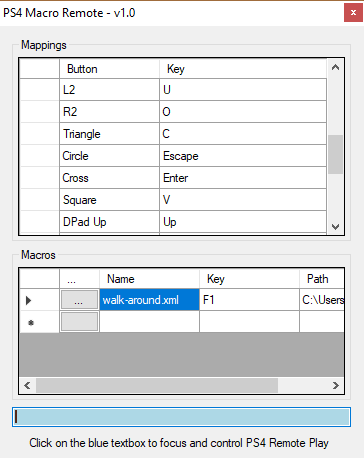
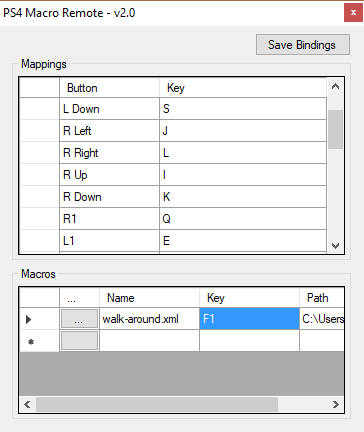
release v2.0.0

diff --git a/PS4Macro.Remote/MainForm.Designer.cs b/PS4Macro.Remote/MainForm.Designer.cs
@@ -156,7 +156,7 @@
             this.Controls.Add(this.mappingsGroupBox);
             this.FormBorderStyle = System.Windows.Forms.FormBorderStyle.FixedToolWindow;
             this.Name = "MainForm";
-            this.Text = "PS4 Macro Remote - v1.1";
+            this.Text = "PS4 Macro Remote - v2.0";
             this.Load += new System.EventHandler(this.MainForm_Load);
             this.mappingsGroupBox.ResumeLayout(false);
             ((System.ComponentModel.ISupportInitialize)(this.mappingsDataGridView)).EndInit();

diff --git a/README.md b/README.md
@@ -15,7 +15,6 @@ Remap and use your keyboard to control PS4 Remote Play using [PS4 Macro](https:/
 
 1. Open PS4Macro.Remote.dll in PS4 Macro.
 2. Press play.
-3. Click on the blue textbox and keep it in focus.
 4. Press the keys on your keyboard.
 
 ## Settings
@@ -26,6 +25,4 @@ To add a recorded macro, click on `...` to browse and select the file.
 
 ## To-Do List
 
-- Save/Load
 - Detect key without input manually
-- ...
